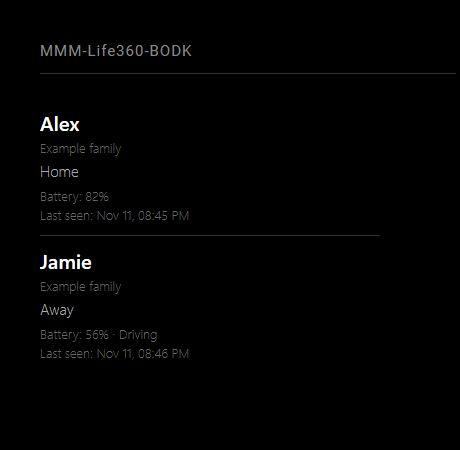
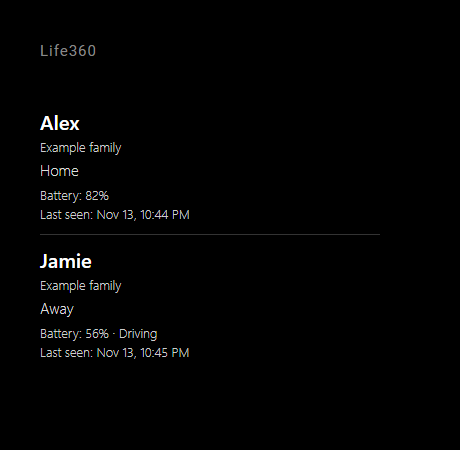
Improve display contrast and refresh README preview

diff --git a/docs/preview.html b/docs/preview.html
@@ -1,3 +1,3 @@
 <!doctype html>
 <!-- Fictional documentation fixture. Open locally; no backend or external services are started. -->
-<html lang="en"><head><meta charset="utf-8"><title>MMM-Life360-BODK preview</title><style>body{margin:0;background:#000;color:#aaa;font-family:"Roboto","Segoe UI",sans-serif;font-size:20px;line-height:1.5;font-weight:300}main{margin:40px;max-width:calc(100% - 80px)}h1{font-size:15px;font-weight:400;letter-spacing:1px;color:#888;border-bottom:1px solid #333;padding-bottom:10px;margin:0 0 24px}.small{font-size:15px}.xsmall{font-size:13px}.medium{font-size:30px}.dimmed{color:#666}.bright{color:#fff}pre{font:15px/1.8 Consolas,monospace;white-space:pre-wrap}</style><link rel="stylesheet" href="../MMM-Life360-BODK.css"></head><body><main class="MMM-Life360-BODK"><h1>MMM-Life360-BODK</h1><div id="display"></div></main><script>let definition; const Module={register(name,value){definition=value;}}; const config={language:"en"};</script><script src="../translations.js"></script><script src="../MMM-Life360-BODK.js"></script><script>definition.config={...definition.defaults};definition.reading={updated:Date.now(),members:[{name:'Alex',circles:[{name:'Example family'}],sharing:true,latitude:0,longitude:0,place:'Home',battery:82,charging:false,driving:false,timestamp:Date.now()-120000},{name:'Jamie',circles:[{name:'Example family'}],sharing:true,latitude:0,longitude:0,place:'Away',battery:56,charging:false,driving:true,timestamp:Date.now()-60000}]};document.getElementById("display").append(definition.getDom()); document.body.dataset.rendered="true";</script></body></html>
+<html lang="en"><head><meta charset="utf-8"><title>MMM-Life360-BODK preview</title><style>body{margin:0;background:#000;color:#aaa;font-family:"Roboto","Segoe UI",sans-serif;font-size:20px;line-height:1.5;font-weight:300}main{margin:40px;max-width:calc(100% - 80px)}h1{font-size:15px;font-weight:400;letter-spacing:1px;color:#888;border-bottom:1px solid #333;padding-bottom:10px;margin:0 0 24px}.small{font-size:15px}.xsmall{font-size:13px}.medium{font-size:30px}.dimmed{color:#666}.bright{color:#fff}pre{font:15px/1.8 Consolas,monospace;white-space:pre-wrap}</style><link rel="stylesheet" href="../MMM-Life360-BODK.css"></head><body><main class="MMM-Life360-BODK"><h1 class="module-header">Life360</h1><div id="display"></div></main><script>let definition; const Module={register(name,value){definition=value;}}; const config={language:"en"};</script><script src="../translations.js"></script><script src="../MMM-Life360-BODK.js"></script><script>definition.config={...definition.defaults};definition.reading={updated:Date.now(),members:[{name:'Alex',circles:[{name:'Example family'}],sharing:true,latitude:0,longitude:0,place:'Home',battery:82,charging:false,driving:false,timestamp:Date.now()-120000},{name:'Jamie',circles:[{name:'Example family'}],sharing:true,latitude:0,longitude:0,place:'Away',battery:56,charging:false,driving:true,timestamp:Date.now()-60000}]};document.getElementById("display").append(definition.getDom()); document.body.dataset.rendered="true";</script></body></html>

diff --git a/MMM-Life360-BODK.css b/MMM-Life360-BODK.css
@@ -1,4 +1,6 @@
-.MMM-Life360-BODK .life360-bodk { --life360-gap: 10px; --life360-warning: #ffb454; text-align: left; max-width: 100%; }
+.MMM-Life360-BODK .module-header { border-bottom: 0; }
+.MMM-Life360-BODK .life360-bodk { --life360-gap: 10px; --life360-warning: #ffb454; color: #ddd; text-align: left; max-width: 100%; }
+.MMM-Life360-BODK .life360-bodk .dimmed { color: #ccc; }
 .MMM-Life360-BODK .life360-member { padding: var(--life360-gap) 0; border-bottom: 1px solid #333; overflow-wrap: anywhere; }
 .MMM-Life360-BODK .life360-member:last-child { border-bottom: 0; }
 .MMM-Life360-BODK .life360-name { font-weight: 600; }

diff --git a/README.md b/README.md
@@ -10,7 +10,7 @@ Inspired by [maxbethge/MMM-Life360](https://github.com/maxbethge/MMM-Life360). T
 
 ### Preview
 
-Default list layout with fictional members, places and battery readings. The optional map is disabled. English is the default language.
+Default list layout with brighter text and no divider below the module heading, using fictional members, places and battery readings. The optional map is disabled. English is the default language.
 
 ![Life360 example with fictional data](docs/images/example.png)
 
